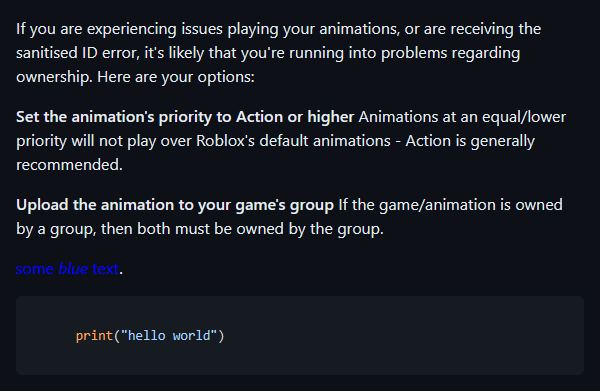
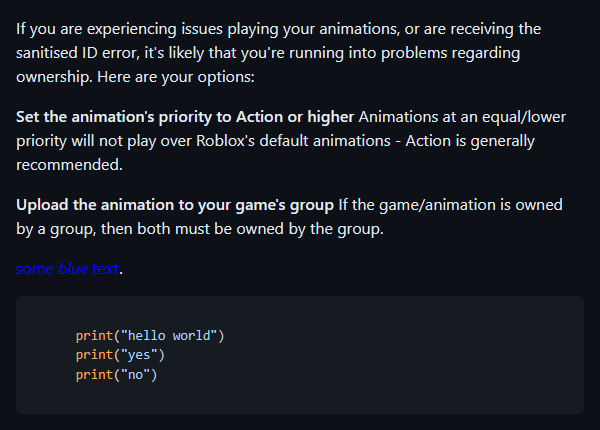
Thumbs only gets generated if file changed

diff --git a/src/content/tags/Animation Ownership.md b/src/content/tags/Animation Ownership.md
@@ -16,4 +16,6 @@ If the game/animation is owned by a group, then both must be owned by the group.
 
 ```lua
     print("hello world")
+    print("yes")
+    print("no")
 ```
